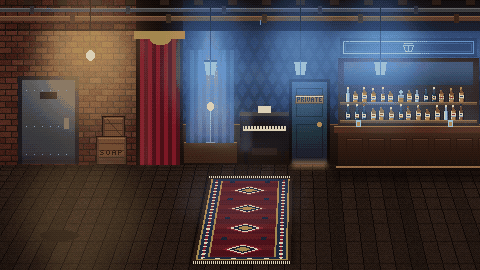
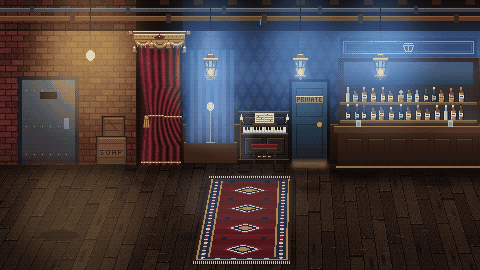
Blue Lantern: detail the lanterns, curtain, pelmet, piano and floor (#269)
Detail pass on the Blue Lantern background (`tools/art/speakeasy.py`,
regenerated `speakeasy.png` / `speakeasy_fg.png`). Stacked on #267.

- **Lanterns**: chain, brass canopy, tapered leaded-glass shade with a
glowing bulb, drip ring and finial
- **Curtain top**: brass rod with ball finials, moulded pelmet with
cartouche, three scalloped swags with fringe and tassels
- **Curtain**: shaded velvet folds gathered by a gold tie-back with
tassel, braided hem
- **Piano**: lid and plinth, fretwork panel, music desk with sheet
music, candle sconces, black keys in 2/3 groups, panelled lower cabinet,
brass pedals, velvet stool with turned legs
- **Floor**: room-specific worn plank floor (grain, knots, staggered
butt joints, nail heads, scuffs, foot-worn track, stains) replaces the
plain shared boards; shared `floor_boards` is unchanged

Footprints are kept, so hotspots and the bar foreground mask still line
up.

Before/after previews (3x nearest-neighbour) are attached below.

## Local suites
- `py -3.14 -m unittest discover -s tests\art`: 153 tests OK
- `dotnet build` + `godot --headless --import`: OK, no errors

![Before](https://github.com/user-attachments/assets/4693773b-ee14-4808-8c89-743d2a2375f2)

![After](https://github.com/user-attachments/assets/12e2986b-4ade-4e9b-91cf-fd8efafef1f3)

diff --git a/tools/art/speakeasy.py b/tools/art/speakeasy.py
@@ -1,8 +1,9 @@
 """The Blue Lantern: a smoky mob-run speakeasy below a laundry."""
 from PIL import Image, ImageDraw
+import math
 import random
 from .common import (W, H, TOP, tall, hx, mix, mul, vgrad, hgrad, noise, light, shadow, vignette, pixelize, palette_of,
-                     text, save, cut, floor_boards)
+                     text, save, cut)
 
 FLOOR = 134
 BLUE = hx("4a8ae8")
@@ -51,15 +52,97 @@ def vestibule(img):
     shadow(img, "rect", [0, FLOOR - 6, 140, FLOOR], 0.4, 3)
 
 
+GOLD, GOLD_HI, GOLD_LO = hx("a08030"), hx("e0c068"), hx("5a4018")
+CURTAIN_TIE = 86  # height of the gold tie-back that gathers the drape
+
+
+def _drape_left(y):
+    """Left edge of the drape: hangs straight, is pulled in to the tie-back, then flares to the floor."""
+    if y <= CURTAIN_TIE:
+        t = max(0.0, (y - 14) / (CURTAIN_TIE - 14))
+        return 139 + 8 * t * t
+    t = (y - CURTAIN_TIE) / (FLOOR - CURTAIN_TIE)
+    return 147 - 6 * (1 - (1 - t) ** 2)
+
+
 def curtain(img):
     d = ImageDraw.Draw(img)
     d.rectangle([136, 0, 182, FLOOR], fill=hx("1a0c0c"))
-    for x in range(140, 180, 4):
-        c = hx("7a1420") if (x // 4) % 2 else hx("4a0a14")
-        d.rectangle([x, 8, x + 3, FLOOR], fill=c)
-    d.rectangle([134, 0, 184, 8], fill=hx("a08030"))
-    d.chord([150, 4, 170, 14], 0, 180, fill=hx("a08030"))
+    vgrad(img, (137, 14, 150, FLOOR), hx("140808"), hx("0a0404"))
+    # velvet drape: rounded folds that bunch at the tie-back
+    px = img.load()
+    rnd = random.Random(41)
+    hi, lo, deep = hx("9a2030"), hx("5a0c18"), hx("1a0408")
+    for y in range(10, FLOOR + 1):
+        xl, xr = _drape_left(y), 180.0
+        squeeze = 1.0 + 0.6 * max(0.0, 1 - abs(y - CURTAIN_TIE) / 30)
+        for x in range(int(round(xl)), int(xr) + 1):
+            u = (x - xl) / (xr - xl)
+            f = 0.5 + 0.5 * math.sin(2 * math.pi * u * 5.5 * squeeze + 0.6)
+            col = mix(deep, mix(lo, hi, f), 0.3 + 0.7 * f)
+            col = mul(col, 1.08 - 0.35 * (y - 10) / (FLOOR - 10))
+            if x - xl < 1.5 or xr - x < 1:
+                col = mul(col, 0.5)
+            n = rnd.randint(-3, 3)
+            px[x, y] = tuple(max(0, min(255, c + n)) for c in col)
+    # gold-braided hem
+    for x in range(int(_drape_left(FLOOR - 3)), 181):
+        d.point((x, FLOOR - 3), fill=GOLD_LO)
+        d.point((x, FLOOR - 2), fill=GOLD if x % 3 else GOLD_HI)
+    # tie-back cord and tassel
+    xl = int(_drape_left(CURTAIN_TIE))
+    d.line([(xl - 1, CURTAIN_TIE - 1), (181, CURTAIN_TIE + 1)], fill=GOLD_LO, width=2)
+    d.line([(xl - 1, CURTAIN_TIE - 1), (181, CURTAIN_TIE)], fill=GOLD)
+    for x in range(xl, 181, 3):
+        d.point((x, CURTAIN_TIE - 1 + (x - xl) * 2 // (181 - xl)), fill=GOLD_HI)
+    d.ellipse([xl - 3, CURTAIN_TIE - 1, xl + 1, CURTAIN_TIE + 3], fill=GOLD, outline=GOLD_LO)
+    d.polygon([(xl - 3, CURTAIN_TIE + 3), (xl + 1, CURTAIN_TIE + 3), (xl + 2, CURTAIN_TIE + 11),
+               (xl - 4, CURTAIN_TIE + 11)], fill=GOLD_LO)
+    for x in range(xl - 3, xl + 2, 2):
+        d.line([(x, CURTAIN_TIE + 4), (x, CURTAIN_TIE + 10)], fill=GOLD)
+    d.point((xl - 2, CURTAIN_TIE), fill=GOLD_HI)
     light(img, "rect", [140, 8, 150, FLOOR], hx("ff8060"), 0.15, 3)
+    pelmet(img)
+
+
+def pelmet(img):
+    """Brass rod with ball finials, a carved pelmet board and scalloped gold swags with fringe and tassels."""
+    d = ImageDraw.Draw(img)
+    d.rectangle([131, 1, 187, 3], fill=GOLD_LO)
+    d.line([(131, 1), (187, 1)], fill=GOLD_HI)
+    for x in (130, 188):
+        d.ellipse([x - 2, 0, x + 2, 4], fill=GOLD, outline=GOLD_LO)
+        d.point((x - 1, 1), fill=GOLD_HI)
+    # pelmet board with a moulded edge and a central cartouche
+    d.rectangle([134, 4, 184, 9], fill=GOLD)
+    d.line([(134, 4), (184, 4)], fill=GOLD_HI)
+    d.line([(134, 9), (184, 9)], fill=GOLD_LO)
+    for x in range(136, 184, 4):
+        d.point((x, 6), fill=GOLD_LO)
+        d.point((x + 1, 7), fill=mix(GOLD, GOLD_HI, 0.5))
+    d.polygon([(159, 4), (164, 7), (159, 10), (154, 7)], fill=hx("6a0e18"), outline=GOLD_LO)
+    d.point((159, 6), fill=GOLD_HI)
+    # three swags hanging between the tails
+    for i, (a, b) in enumerate(((134, 151), (151, 168), (168, 184))):
+        depth = 8 if i == 1 else 6
+        bbox = [a, 10 - depth, b, 10 + depth]
+        d.pieslice(bbox, 0, 180, fill=GOLD)
+        d.arc([a + 2, 10 - depth + 2, b - 2, 10 + depth - 2], 20, 160, fill=GOLD_HI)
+        d.arc([a + 4, 10 - depth + 3, b - 4, 10 + depth - 4], 30, 150, fill=GOLD_LO)
+        d.arc(bbox, 0, 180, fill=GOLD_LO)
+        cx = (a + b) / 2
+        for x in range(a + 1, b, 2):
+            t = (x - cx) / ((b - a) / 2)
+            y = 10 + depth * math.sqrt(max(0.0, 1 - t * t))
+            d.line([(x, y + 1), (x, y + 2)], fill=mix(GOLD, GOLD_HI, 0.4) if x % 4 == 1 else GOLD_LO)
+    # tasselled tails at the outer corners and between the swags
+    for x, top, length in ((134, 9, 13), (151, 10, 8), (168, 10, 8), (184, 9, 13)):
+        d.line([(x, top), (x, top + length - 5)], fill=GOLD_LO)
+        d.ellipse([x - 1, top + length - 6, x + 1, top + length - 4], fill=GOLD_HI)
+        d.polygon([(x - 1, top + length - 4), (x + 1, top + length - 4), (x + 2, top + length),
+                   (x - 2, top + length)], fill=GOLD)
+        d.line([(x - 2, top + length), (x + 2, top + length)], fill=GOLD_LO)
+    shadow(img, "rect", [136, 18, 182, 24], 0.35, 3)
 
 
 def main_room(img):
@@ -98,16 +181,66 @@ def stage(img):
 
 def piano(img):
     d = ImageDraw.Draw(img)
-    d.rectangle([240, 82, 288, 120], fill=hx("16100e"))
-    d.rectangle([240, 82, 288, 85], fill=hx("3a2a20"))
-    d.rectangle([243, 96, 285, 100], fill=hx("e8e4d8"))
-    for x in range(244, 285, 3):
-        d.line([(x, 96), (x, 98)], fill=hx("16100e"))
-    d.rectangle([244, 120, 247, 133], fill=hx("16100e"))
-    d.rectangle([281, 120, 284, 133], fill=hx("16100e"))
-    d.rectangle([258, 76, 270, 82], fill=hx("e0d8c0"))  # sheet music
-    d.rectangle([252, 118, 276, 124], fill=hx("2a1a14"))  # stool
-    light(img, "rect", [240, 82, 250, 120], hx("8090c0"), 0.2, 2)
+    body, edge, hi = hx("1c1310"), hx("0a0605"), hx("4a3628")
+    # cabinet, overhanging lid and plinth
+    d.rectangle([240, 84, 288, 130], fill=body)
+    d.rectangle([238, 81, 290, 84], fill=hx("2e2018"))
+    d.line([(238, 81), (290, 81)], fill=hx("6a4c34"))
+    d.line([(238, 84), (290, 84)], fill=edge)
+    d.rectangle([238, 129, 290, 133], fill=hx("140c0a"))
+    d.line([(238, 129), (290, 129)], fill=hi)
+    d.line([(240, 85), (240, 128)], fill=hi)
+    d.line([(288, 85), (288, 128)], fill=edge)
+    # carved upper panel with fretwork and the music desk holding the sheet music
+    d.rectangle([244, 86, 284, 94], outline=edge)
+    d.line([(245, 87), (283, 87)], fill=hi)
+    for x in range(248, 282, 6):
+        d.arc([x, 88, x + 5, 93], 180, 360, fill=hx("3a2a20"))
+    d.rectangle([255, 83, 273, 93], fill=hx("e0d8c0"))
+    d.line([(264, 83), (264, 93)], fill=hx("b0a888"))
+    for y in (85, 87, 89, 91):
+        d.line([(256, y), (263, y)], fill=hx("6a6050"))
+        d.line([(265, y), (272, y)], fill=hx("6a6050"))
+    for x, y in ((258, 86), (261, 88), (267, 84), (270, 90)):
+        d.point((x, y), fill=hx("1a1410"))
+    d.rectangle([252, 93, 276, 94], fill=hx("3a2a20"))
+    # brass candle sconces swung out from the cabinet sides
+    for x, s in ((243, -1), (285, 1)):
+        d.line([(x, 92), (x + 2 * s, 89)], fill=GOLD)
+        d.rectangle([x + 2 * s - 1, 87, x + 2 * s + 1, 89], fill=GOLD_HI)
+        d.line([(x + 2 * s, 84), (x + 2 * s, 86)], fill=hx("e8e0c8"))
+    # fallboard, keys and key slip
+    d.rectangle([241, 95, 287, 96], fill=hx("2e2018"))
+    d.rectangle([243, 97, 285, 102], fill=hx("e8e4d8"))
+    for x in range(246, 285, 3):
+        d.line([(x, 97), (x, 102)], fill=hx("a8a498"))
+    for i, x in enumerate(range(245, 284, 3)):
+        if i % 7 not in (2, 6):
+            d.rectangle([x, 97, x + 1, 99], fill=hx("0e0a08"))
+    d.line([(243, 102), (285, 102)], fill=hx("b0aca0"))
+    d.rectangle([241, 103, 287, 104], fill=hx("3a2a20"))
+    d.line([(241, 103), (287, 103)], fill=hx("6a4c34"))
+    # lower panels and pedals
+    for x0, x1 in ((244, 262), (266, 284)):
+        d.rectangle([x0, 107, x1, 124], outline=edge)
+        d.line([(x0 + 1, 108), (x1 - 1, 108)], fill=hi)
+        d.line([(x0 + 1, 108), (x0 + 1, 123)], fill=hi)
+        d.rectangle([x0 + 3, 110, x1 - 3, 121], outline=hx("2a1c16"))
+    for x in (259, 264, 269):
+        d.rectangle([x - 1, 126, x + 1, 127], fill=GOLD)
+        d.point((x - 1, 126), fill=GOLD_HI)
+    # stool: velvet seat, apron and turned legs
+    d.rectangle([251, 114, 277, 117], fill=hx("4a0c18"))
+    d.line([(251, 114), (277, 114)], fill=hx("8a2030"))
+    d.rectangle([252, 118, 276, 120], fill=hx("2a1a14"))
+    d.line([(252, 118), (276, 118)], fill=hx("5a3a26"))
+    for x in (253, 274):
+        d.line([(x, 121), (x, 133)], fill=hx("2a1a14"), width=2)
+        d.point((x, 125), fill=hx("5a3a26"))
+        d.point((x, 129), fill=hx("5a3a26"))
+    d.line([(254, 127), (274, 127)], fill=hx("1e120c"))
+    light(img, "rect", [240, 82, 250, 128], hx("8090c0"), 0.2, 2)
+    light(img, "rect", [255, 83, 273, 93], hx("fff0c0"), 0.15, 2)
 
 
 GLYPHS = {
@@ -243,12 +376,41 @@ def bar(img):
 
 def lanterns(img):
     d = ImageDraw.Draw(img)
+    glass, glass_lo, lead = hx("6aa8ff"), hx("3a6ac0"), hx("1a2a4a")
     for x in (210, 300, 380):
-        d.line([(x, 0), (x, 30)], fill=hx("101010"))
-        d.polygon([(x - 6, 30), (x + 6, 30), (x + 4, 44), (x - 4, 44)], fill=hx("6aa8ff"))
-        d.line([(x - 6, 30), (x + 6, 30)], fill=hx("202020"), width=2)
-        d.line([(x, 30), (x, 44)], fill=hx("2a4a8a"))
+        # chain links down to a brass canopy
+        for y in range(0, 24, 2):
+            d.point((x, y), fill=hx("2a2a2e") if (y // 2) % 2 else hx("5a5a60"))
+        d.polygon([(x - 3, 24), (x + 3, 24), (x + 5, 28), (x - 5, 28)], fill=GOLD_LO)
+        d.line([(x - 2, 24), (x + 2, 24)], fill=GOLD_HI)
+        d.rectangle([x - 7, 28, x + 7, 30], fill=GOLD)
+        d.line([(x - 7, 28), (x + 7, 28)], fill=GOLD_HI)
+        d.line([(x - 7, 30), (x + 7, 30)], fill=GOLD_LO)
+        # tapered shade of leaded panes, lit from the bulb inside
+        for y in range(31, 45):
+            hw = 6 - (y - 31) * 2 / 13
+            for px_ in range(int(round(x - hw)), int(round(x + hw)) + 1):
+                u = (px_ - (x - hw)) / (2 * hw)
+                glow = 1 - abs(u - 0.5) * 1.4
+                c = mix(glass_lo, glass, max(0.0, glow))
+                if y > 37:
+                    c = mix(c, hx("d8ecff"), max(0.0, glow - 0.3) * 0.8)
+                d.point((px_, y), fill=c)
+            d.point((int(round(x - hw)), y), fill=lead)
+            d.point((int(round(x + hw)), y), fill=lead)
+        for off in (-2, 2):
+            d.line([(x + off, 31), (x + off * 0.7, 44)], fill=lead)
+        d.line([(x - 6, 37), (x + 6, 37)], fill=lead)
+        d.point((x - 4, 33), fill=hx("e8f4ff"))
+        d.point((x - 4, 34), fill=hx("b0d4ff"))
+        # bulb, drip ring and finial
+        d.ellipse([x - 2, 39, x + 2, 44], fill=hx("fff6d8"))
+        d.rectangle([x - 5, 45, x + 5, 46], fill=GOLD)
+        d.line([(x - 5, 46), (x + 5, 46)], fill=GOLD_LO)
+        d.rectangle([x - 1, 47, x + 1, 48], fill=GOLD_LO)
+        d.point((x, 49), fill=GOLD)
         light(img, "ellipse", [x - 40, 0, x + 40, 90], BLUE, 0.45, 14)
+        light(img, "ellipse", [x - 6, 36, x + 6, 48], hx("fff0c0"), 0.35, 3)
 
 
 def tables(img):
@@ -341,11 +503,76 @@ def runner(img):
     light(img, "ellipse", [180, RUG_BACK - 10, 300, RUG_BACK + 50], hx("8090c0"), 0.15, 10)
 
 
+def _h(*v):
+    """Deterministic hash of integers to [0, 1)."""
+    n = 0x9E3779B1
+    for i in v:
+        n = (n ^ (i & 0xFFFFFFFF)) * 0x85EBCA6B & 0xFFFFFFFF
+        n ^= n >> 13
+    return (n * 0xC2B2AE35 & 0xFFFFFFFF) / 2 ** 32
+
+
+def planks(img):
+    """Worn floorboards in the room's perspective: grain, knots, staggered butt joints, nail heads and scuffs."""
+    px = img.load()
+    vx, vy = RUG_VP
+    y1 = H - 1
+    front = y1 - vy
+    spacing, length = 14, 64
+    c1, c2, seam = hx("2e1e16"), hx("1e140e"), hx("0c0604")
+    for y in range(FLOOR, H):
+        depth = front * front / (y - vy) - front  # floor units from the front edge, about 1 per pixel up close
+        scale = (y - vy) / front
+        for x in range(W):
+            xf = vx + (x - vx) / scale
+            i = math.floor(xf / spacing)
+            u = xf / spacing - i
+            offset = _h(i, 1) * length
+            j = math.floor((depth + offset) / length)
+            v = (depth + offset) / length - j
+            tone = _h(i, j, 2)
+            c = mix(c1, c2, tone)
+            # grain running along the board, wavering with the plank's own figure
+            g = math.sin((u * 5 + 0.6 * math.sin(v * 7 + tone * 6)) * math.pi * (2 + int(tone * 3)))
+            if g > 0.8:
+                c = mul(c, 0.82)
+            elif g < -0.9:
+                c = mul(c, 1.12)
+            # knots
+            ku, kv = _h(i, j, 3), _h(i, j, 4)
+            kd = ((u - (0.25 + 0.5 * ku)) * spacing) ** 2 + ((v - (0.2 + 0.6 * kv)) * length / 3) ** 2
+            if _h(i, j, 5) < 0.35 and kd < 6:
+                c = mul(c, 0.55 if kd < 1.5 else 0.75)
+            # board edges, butt joints and the nail heads beside them
+            if u * spacing < 1.0:
+                c = seam
+            elif u * spacing > spacing - 0.8:
+                c = mul(c, 1.25)
+            row = (front / (y - vy)) ** 2
+            if v * length < 1.2 * row:
+                c = seam
+            elif 1.2 * row <= v * length < 1.2 * row + 1.0 and min(abs(u - 0.25), abs(u - 0.75)) * spacing < 0.6:
+                c = hx("4a3a2c")
+            px[x, y] = c
+    noise(img, (0, FLOOR, W - 1, H - 1), 5, 33)
+    # foot-worn track between the door, the curtain and the bar, and old spills
+    light(img, "polygon", [(30, 150), (470, 150), (480, 200), (10, 210)], hx("6a4a30"), 0.12, 10)
+    rnd = random.Random(19)
+    for _ in range(9):
+        x, y = rnd.randint(10, 470), rnd.randint(FLOOR + 6, H - 6)
+        w = rnd.randint(6, 18)
+        shadow(img, "ellipse", [x - w, y - w // 5, x + w, y + w // 5], 0.35, 2)
+    d = ImageDraw.Draw(img)
+    for _ in range(40):
+        x, y = rnd.randint(0, W - 8), rnd.randint(FLOOR + 2, H - 2)
+        d.line([(x, y), (x + rnd.randint(2, 6), y + rnd.choice((0, 0, 1)))], fill=hx("3e2a1e"))
+    shadow(img, "rect", [0, FLOOR, W - 1, FLOOR + 8], 0.5, 4)
+
+
 def paint():
     img = Image.new("RGB", (W, H))
     main_room(img)
-    floor_boards(img, FLOOR, H - 1, (300, -300), 16, hx("2a1c16"), hx("1e140e"), hx("0e0806"), 9)
-    noise(img, (0, FLOOR, W - 1, H - 1), 5, 33)
+    planks(img)
     d = ImageDraw.Draw(img)
     runner(img)
     # the corners stay black with spilled beer
